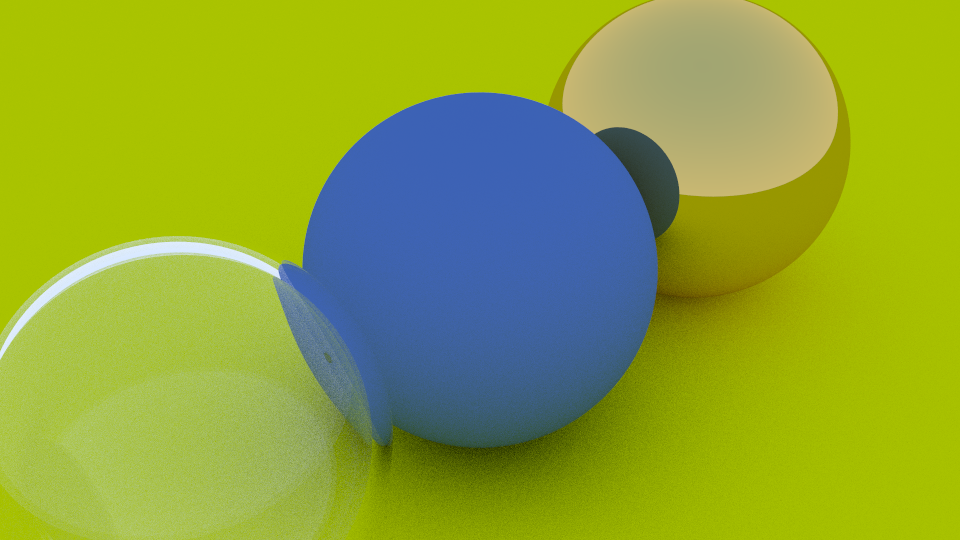
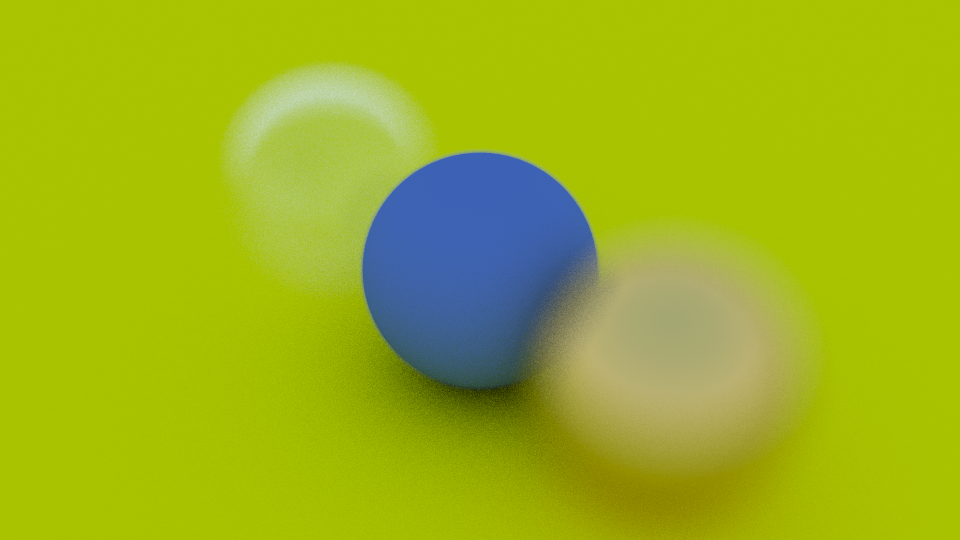
camera: add defocus blur
Our camera is now a better approximation of a real camera. Let's add
depth of field to make it a little closer to reality.

diff --git a/src/camera.cpp b/src/camera.cpp
@@ -1,20 +1,27 @@
 #include "include/camera.hpp"
 
-camera::camera(vec3 lookfrom, vec3 lookat, vec3 vup, float vfov, float aspect) :
-	origin(lookfrom)
+camera::camera(vec3 lookfrom, vec3 lookat, vec3 vup,
+	       float vfov, float aspect, float aperture, float focus_dist) :
+	origin(lookfrom), lens_radius(aperture / 2)
 {
-	vec3 w(vec3::unit_vector(lookfrom - lookat));
-	vec3 u(vec3::unit_vector(vec3::cross(vup, w)));
-	vec3 v(vec3::cross(w, u));
+	w = vec3::unit_vector(lookfrom - lookat);
+	u = vec3::unit_vector(vec3::cross(vup, w));
+	v = vec3::cross(w, u);
 	float theta = vfov * M_PI / 180;
 	float half_height = tan(theta / 2);
 	float half_width = aspect * half_height;
-	lower_left_corner = origin - half_width * u - half_height * v - w;
-	horizontal = 2 * half_width * u;
-	vertical = 2 * half_height * v;
+	lower_left_corner = origin - focus_dist * (half_width * u
+						   + half_height * v + w);
+	horizontal = 2 * half_width * focus_dist * u;
+	vertical = 2 * half_height * focus_dist * v;
 }
 
-ray camera::get_ray(float u, float v) {
-	return ray(origin, lower_left_corner +
-			   u * horizontal + v * vertical - origin);
+ray camera::get_ray(float s, float t) {
+	vec3 rd = lens_radius * random_in_unit_disk();
+	vec3 offset = u * rd.x() + v * rd.y();
+
+	return ray(origin + offset, lower_left_corner
+				    + s * horizontal
+				    + t * vertical
+				    - origin - offset);
 }

diff --git a/src/tracer.cpp b/src/tracer.cpp
@@ -10,10 +10,11 @@ int main(void) {
 	int ny = 540;
 	int ns = 100;
 
-	vec3 origin;
-	vec3 vertical(0.0f, 18.0f, 0.0f);
-	vec3 horizontal(32.0f, 0.0f, 0.0f);
-	vec3 lower_left_corner(-16.0f, -9.0f, -9.0f);
+	vec3 lookfrom(3.0f, 3.0f, 2.0f);
+	vec3 lookat(0.0f, 0.0f, -1.0f);
+
+	float dist_to_focus = (lookfrom - lookat).length();
+	float aperture = 2.0f;
 
 	hitable *list[5];
 	list[0] = new sphere(vec3(0.0f, 0.0f, -1.0f),
@@ -27,10 +28,10 @@ int main(void) {
 	list[4] = new sphere(vec3(-1.0f, 0.0f, -1.0f),
 			     -0.45f, new dielectric(1.5));
 	hitable *world = new hitable_list(list, 5);
-	camera cam(vec3(-2.0f, 2.0f, 1.0f),
-		   vec3(0.0f, 0.0f, -1.0f),
+	camera cam(lookfrom, lookat,
 		   vec3(0.0f, 1.0f, 0.0f),
-		   25, float(nx) / float(ny));
+		   25, float(nx) / float(ny),
+		   aperture, dist_to_focus);
 
 	std::cout << "P3\n" << nx << " " << ny << "\n255\n";
 

diff --git a/src/include/camera.hpp b/src/include/camera.hpp
@@ -3,12 +3,17 @@
 
 #include "ray.hpp"
 
+extern vec3 random_in_unit_disk();
+
 class camera {
 public:
-	camera(vec3 lookfrom, vec3 lookat, vec3 vup, float vfov, float aspect);
-	ray get_ray(float u, float v);
+	camera(vec3 lookfrom, vec3 lookat, vec3 vup,
+	       float vfov, float aspect, float aperture, float focus_dist);
+	ray get_ray(float s, float t);
 
 	vec3 origin, vertical, horizontal, lower_left_corner;
+	vec3 u, v, w;
+	float lens_radius;
 };
 
 #endif

diff --git a/src/include/util.hpp b/src/include/util.hpp
@@ -13,6 +13,17 @@ inline double random_double() {
 	return rng();
 }
 
+vec3 random_in_unit_disk() {
+	vec3 p;
+
+	do {
+		p = 2.0f * vec3(random_double(), random_double(), 0.0f)
+		    - vec3(1.0f, 1.0f, 0.0f);
+	} while (p.squared_length() >= 1.0f);
+
+	return p;
+}
+
 vec3 random_in_unit_sphere() {
 	vec3 p;
 
